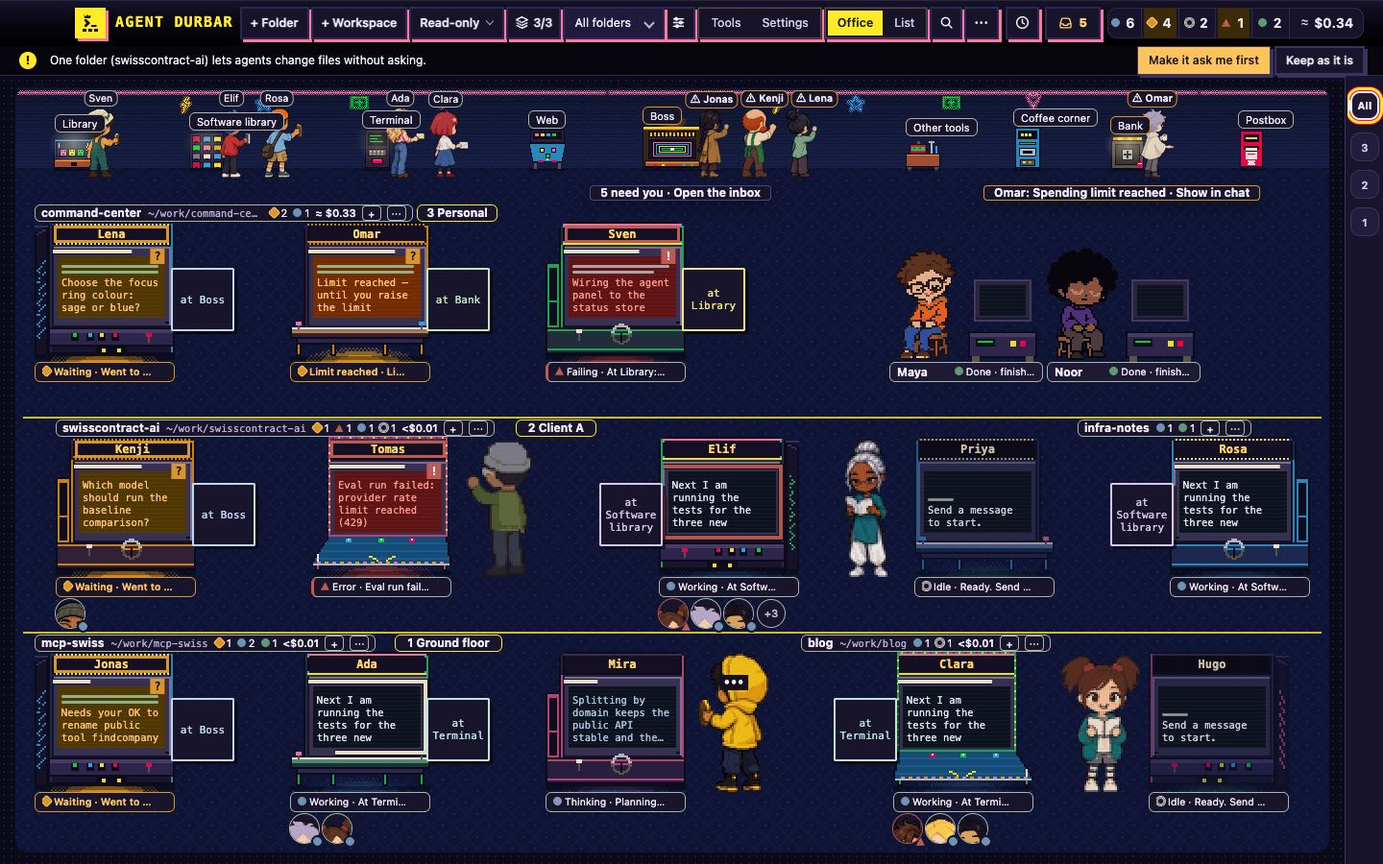
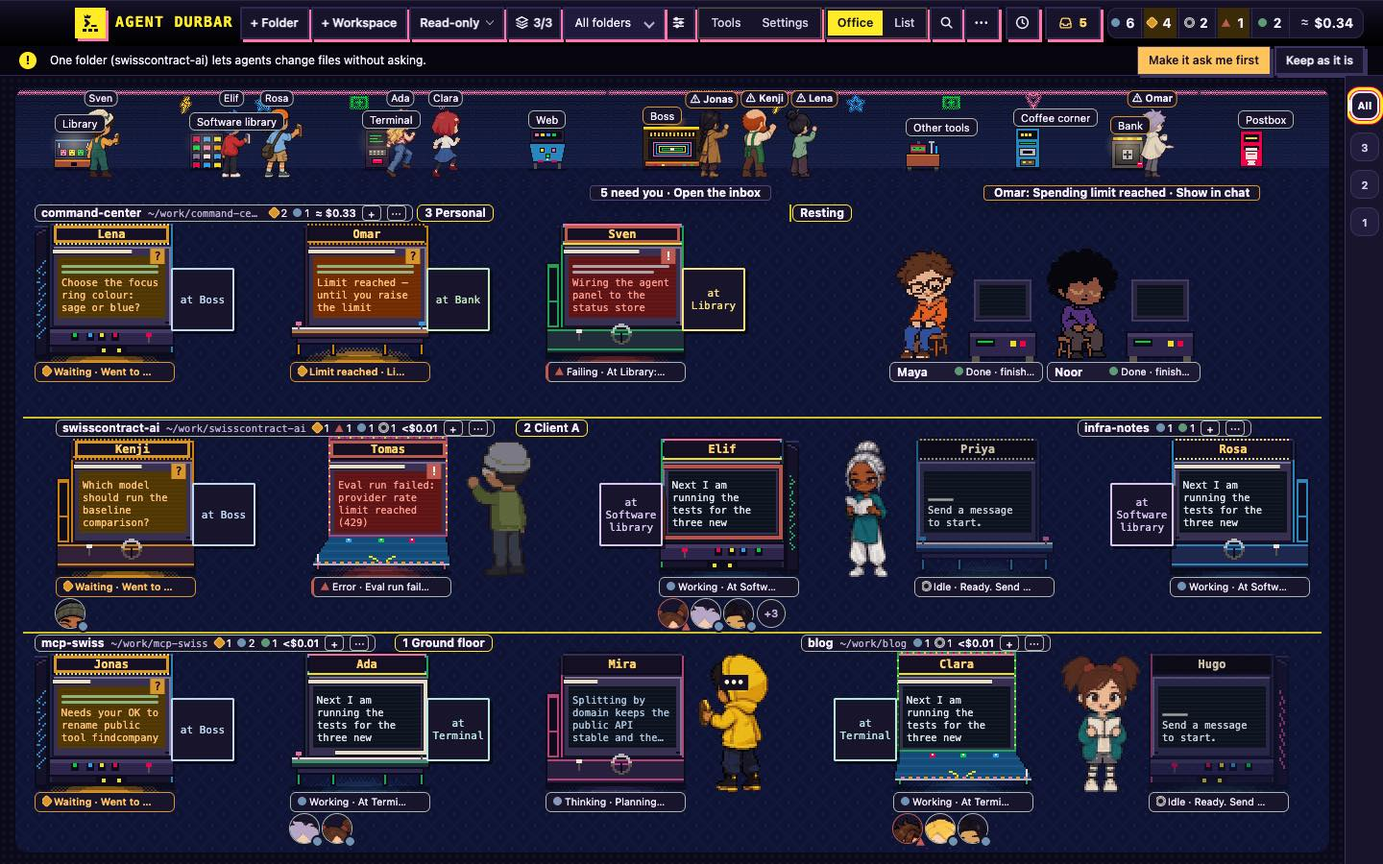
arcade All floors: resting seats in their own floor or under a Resting tag, tag sized from the measured text, a forced break keeps the helper strip, the keep clause tested

diff --git a/src/shared/realoffice-arrangements.ts b/src/shared/realoffice-arrangements.ts
@@ -40,16 +40,19 @@ export function aisleFace(col: number, cols: number, row: number): 'left' | 'rig
  *  rows of five), `keep` is off and every folder flows on: the floor never scrolls for it. */
 /** Spec 097 FR-248: `extra` single cells (the lounge's) go after the seats into the free cells at the rows' ends, the last row first, then on new rows */
 /** spec 102 delta 2026-11-14 (spec 097 FR-104): `starts` holds the indexes of the folders that begin a new storey (not the first): such a folder always starts a new row, so no row holds two floors */
-export function packSeats(sizes: number[], cols: number, keep = true, extra = 0, starts?: ReadonlySet<number>): { at: Array<[number, number]>; rows: number; inRow: number[] } {
-  const at: Array<[number, number]> = []; let r = 0, c = 0;
+/** spec 102 delta 2026-11-14 (review of #1741): `ends` maps a folder index to the number of lounge cells that follow that folder in the flow, so a floor's resting seats stand at the end of that floor's own folders (never in another floor's band); `extra` is then not used */
+export function packSeats(sizes: number[], cols: number, keep = true, extra = 0, starts?: ReadonlySet<number>, ends?: ReadonlyMap<number, number>): { at: Array<[number, number]>; rows: number; inRow: number[] } {
+  const at: Array<[number, number]> = [], cells: Array<[number, number]> = []; let r = 0, c = 0;
   for (const [fi, m] of sizes.entries()) {
     if (starts && starts.has(fi) && c > 0) { r++; c = 0; }
     const small = keep && m <= 4;
     if (small && c > 0 && c + m > cols) { r++; c = 0; }
     for (let j = 0; j < m; j++) { if (c >= cols) { r++; c = 0; } at.push([r, c++]); }
     if (small && m > cols && c > 0) { r++; c = 0; }            /* the rows of a folder wider than a row are its own */
+    for (let e = 0; ends && e < (ends.get(fi) || 0); e++) { if (c >= cols) { r++; c = 0; } cells.push([r, c++]); }
   }
   let rows = Math.max(1, c > 0 ? r + 1 : r);
+  if (ends) { at.push(...cells); const inRowE = Array.from({ length: rows }, (_, i) => at.filter((p) => p[0] === i).length); return { at, rows, inRow: inRowE }; }
   const inRow = Array.from({ length: rows }, (_, i) => at.filter((p) => p[0] === i).length);
   for (let e = 0; e < extra; e++) {
     let row = -1;
@@ -67,13 +70,13 @@ interface Plan { keep: boolean; g: number; gw: number; gh: number; cols: number;
  *  straight plan of the same scale, cabinet and rows and covers the same floor, so it never won; the rows stagger instead. The order: no bare band over a quarter of
  *  the floor if any plan manages that, then the biggest scale, then the biggest cabinet, then the least bare floor. Past what fits, rows are added
  *  at the smallest choice and the floor scrolls inside itself (T203). */
-function planFor(sizes: number[], W: number, F: number, PW: number = AISLE_PERSON.w, extra = 0, sh = 0, starts?: ReadonlySet<number>): Plan {
+function planFor(sizes: number[], W: number, F: number, PW: number = AISLE_PERSON.w, extra = 0, sh = 0, starts?: ReadonlySet<number>, ends?: ReadonlyMap<number, number>): Plan {
   const gaps = starts ? starts.size * STOREY_GAP : 0; /* the rule between two storeys */
   const k = sizes.reduce((a, b) => a + b, 0) + extra; /* extra: the lounge's cells (spec 097 FR-248) */
   const rowCost = (gh: number, g: number): number => AISLE_SIGN_H + cabGrid(0, gh).h * g + AISLE_PLATE_H + g - 1 + sh; /* g - 1: the cabinet snaps down to the grid; sh: the helper strip's fixed height under every plate (spec 097 FR-306, 0 without helpers) */
   const plans: Plan[] = [];
   for (const keep of [true, false]) for (const g of k <= 4 ? AISLE_G_FEW : [3, 2]) for (const [name, c] of Object.entries(CABINETS)) for (let cols = 1; cols <= AISLE_COLS; cols++) {
-    const rows = packSeats(sizes, cols, keep, extra, starts).rows, cab = cabGrid(c.gw, c.gh), slotW = (cab.w + PW + AISLE_GAP) * g;
+    const rows = packSeats(sizes, cols, keep, extra, starts, ends).rows, cab = cabGrid(c.gw, c.gh), slotW = (cab.w + PW + AISLE_GAP) * g;
     const cw = (W - 2 * AISLE_PAD) / cols, spareY = F - rows * rowCost(c.gh, g) - gaps;
     if (slotW > cw || slotW < AISLE_SIGN_MIN_W || spareY < 0 || cols > k) continue;
     plans.push({ keep, g, gw: c.gw, gh: c.gh, cols, rows, big: name === 'big', sl: Math.min(13, Math.floor(spareY / (2 * rows + 2))), /* the bend flattens before anything scrolls */ rowH: rowCost(c.gh, g), slotW, fits: true });
@@ -84,7 +87,7 @@ function planFor(sizes: number[], W: number, F: number, PW: number = AISLE_PERSO
   plans.sort((a, b) => Number(b.keep) - Number(a.keep) || cover(b) - cover(a) || Number(bare(a) > F / 4) - Number(bare(b) > F / 4) || b.g - a.g || b.gw * b.gh - a.gw * a.gh || bare(a) - bare(b) || a.rows - b.rows);
   if (plans.length) return plans[0];
   /* it does not fit: five columns of the smallest cabinet, as many rows as it takes, and the floor scrolls */
-  const g = 2, gw = CABINETS.narrow.gw, gh = CABINETS.narrow.gh, cols = k <= 4 ? 2 : AISLE_COLS, cab = cabGrid(gw, gh), rows = packSeats(sizes, cols, false, extra, starts).rows;
+  const g = 2, gw = CABINETS.narrow.gw, gh = CABINETS.narrow.gh, cols = k <= 4 ? 2 : AISLE_COLS, cab = cabGrid(gw, gh), rows = packSeats(sizes, cols, false, extra, starts, ends).rows;
   return { keep: false, g, gw, gh, cols, rows, big: false, sl: 3, rowH: rowCost(gh, g), slotW: (cab.w + PW + AISLE_GAP) * g, fits: false };
 }
 
@@ -168,11 +171,15 @@ function aisleSeat(meta: RealMeta, a: RealAgent, sx: number, plateY: number, gl:
 export function aislesLayout(model: RealModel, view: { w: number; h: number }, meta: RealMeta, signs?: Record<string, { name: string; path: string; counts: number }>): Layout {
   const W = Math.max(200, view.w), Ho = Math.max(200, view.h);
   /* FR-248: the lounge's agents leave their cabinets; their seats take cells after the cabinets (below) */
-  const sp = splitLounge(model), lounge = sp.lounge;
+  const sp = splitLounge(model); let lounge = sp.lounge;
   const floorOf = new Map(model.folders.map((f) => [f.id, f.floor] as const));
   const folders = sp.desks.filter((f) => f.agents.length).map((f) => ({ id: f.id, agents: shownDesks(f), floor: floorOf.get(f.id) })); /* FR-345: a saved desk order is kept in the cabinet rows too */
   /* spec 102 delta 2026-11-14 (spec 097 FR-104): a world that draws storeys (`meta.storeys`) puts each floor on rows of its own; `starts` are the folders that begin a storey after the first */
-  const runs = meta.storeys ? storeyRuns(folders) : null, starts = runs ? new Set(runs.slice(1).map((r) => r.from)) : undefined;
+  let runs = meta.storeys ? storeyRuns(folders) : null, starts: ReadonlySet<number> | undefined = runs ? new Set(runs.slice(1).map((r) => r.from)) : undefined;
+  /* review of #1741: a resting agent's seat stands at the end of its own floor's folders when that costs the hall nothing (the lounge is put in the building's order, stable: the status order within a floor).
+     Otherwise (or when an agent's floor has no folder here) the seats stay in the free cells at the rows' ends, as FR-248 has them, under their own tag "Resting" and a rule: no floor's band holds them */
+  const floorOfAgent = new Map(model.folders.flatMap((f) => f.agents.map((a) => [a.id, f.floor] as const)));
+  const loungeSt = (a: RealAgent): number => (runs ? runs.findIndex((r) => r.floor.id === (floorOfAgent.get(a.id) || { id: '' }).id) : -1);
   const seats = folders.flatMap((f) => f.agents.map((a) => ({ a, f: f.id })));
   const k = seats.length;
   const [lobbyMin0, lobbyMax] = lobbyRange(Ho), lobbyMin = lobbyMin0 - AISLE_LANE;
@@ -181,35 +188,51 @@ export function aislesLayout(model: RealModel, view: { w: number; h: number }, m
   /* the lobby first: the rows bend only with what is left once it has its height */
   /* FR-248: the lounge's seats take cells after the cabinets, in the hall's own grid (so the plan is never worse than with those agents at cabinets): as many
      cells as the seats need at the narrowest cell a plan can have (a seat is narrower than a cabinet with its player, so 5 seats take 4 cells) */
-  const minCell = cabGrid(CABINETS.narrow.gw, CABINETS.narrow.gh).w + PW + AISLE_GAP, nCells = lounge.length ? Math.ceil((lounge.length * AISLE_LSEAT) / minCell - 1e-9) : 0;
-  const sizes = folders.map((f) => f.agents.length), kc = k + nCells, lobbyT = Math.min(kc <= 4 ? AISLE_LOBBY_FEW : AISLE_LOBBY, lobbyMax);
+  const minCell = cabGrid(CABINETS.narrow.gw, CABINETS.narrow.gh).w + PW + AISLE_GAP, nCells0 = lounge.length ? Math.ceil((lounge.length * AISLE_LSEAT) / minCell - 1e-9) : 0;
+  /* the cells a storey's resting seats need, after that storey's last folder; their sum is the lounge's cells in the building view */
+  const aOk = !!runs && lounge.length > 0 && lounge.every((a) => loungeSt(a) >= 0), loungeS = aOk ? [...lounge].sort((a, b) => loungeSt(a) - loungeSt(b)) : lounge, cellsPer = aOk ? runs!.map((_, si) => { const n = loungeS.filter((a) => loungeSt(a) === si).length; return n ? Math.ceil((n * AISLE_LSEAT) / minCell - 1e-9) : 0; }) : [];
+  const ends: ReadonlyMap<number, number> | undefined = aOk ? new Map(runs!.map((r, si) => [r.to - 1, cellsPer[si]] as const).filter(([, n]) => n > 0)) : undefined, nCellsS = cellsPer.reduce((a, b) => a + b, 0);
+  const sizes = folders.map((f) => f.agents.length), kc = k + nCells0, lobbyT = Math.min(kc <= 4 ? AISLE_LOBBY_FEW : AISLE_LOBBY, lobbyMax);
   /* owner, 2026-11-03 06:59 UTC (option A): with 4 or fewer the lobby may be lower, down to its minimum, when that lets the cabinets grow; the
      lobby height and the plan are chosen together, by the floor the cabinets and people cover (the same height on a tie keeps the higher lobby);
      what the larger plan leaves goes back to the lobby */
   const covered = (p: Plan): number => p.fits ? p.g * p.g * (cabGrid(p.gw, p.gh).w * cabGrid(p.gw, p.gh).h + PW * AISLE_PERSON.h) : -1;
   /* spec 097 FR-306, FR-308 (issue #1139): with helpers, one row of head figures under every plate (a fixed height in every row); if the hall then no longer fits, no strip: the plate keeps +N and dots */
   const hasHelpers = folders.some((f) => f.agents.some((a) => (a.helpers || 0) > 0));
-  const planAt = (sh: number, st?: ReadonlySet<number>): Plan => {
-    let first = planFor(sizes, W, Ho - lobbyT - AISLE_LANE - AISLE_PAD, PW, nCells, sh, st);
-    if (kc <= 4 && AISLE_LOW_LOBBY) for (let L = lobbyT - 4; L >= Math.min(lobbyMin + AISLE_LANE, AISLE_LOBBY_LOW); L -= 2) { const p = planFor(sizes, W, Ho - L - AISLE_LANE - AISLE_PAD, PW, nCells, sh, st); if (covered(p) > covered(first)) first = p; }
+  const planAt = (sh: number, st?: ReadonlySet<number>, en?: ReadonlyMap<number, number>): Plan => {
+    const nCells = en ? nCellsS : nCells0;
+    let first = planFor(sizes, W, Ho - lobbyT - AISLE_LANE - AISLE_PAD, PW, nCells, sh, st, en);
+    if (kc <= 4 && AISLE_LOW_LOBBY) for (let L = lobbyT - 4; L >= Math.min(lobbyMin + AISLE_LANE, AISLE_LOBBY_LOW); L -= 2) { const p = planFor(sizes, W, Ho - L - AISLE_LANE - AISLE_PAD, PW, nCells, sh, st, en); if (covered(p) > covered(first)) first = p; }
     /* spec 102 delta 2026-11-12 (issue 1590): the lowest lobby is also tried when the plan at the set lobby fits only by cutting a folder of 4 or fewer across rows (keep: false) and the lowest lobby keeps them whole */
-    const low = planFor(sizes, W, Ho - lobbyMin - AISLE_LANE - AISLE_PAD, PW, nCells, sh, st);
+    const low = planFor(sizes, W, Ho - lobbyMin - AISLE_LANE - AISLE_PAD, PW, nCells, sh, st, en);
     return first.fits && (first.keep || !low.keep) ? first : low;
   };
-  const solve = (st?: ReadonlySet<number>): { sh: number; plan: Plan } => {
-    let sh = hasHelpers ? helpH(1) : 0, plan = planAt(sh, st);
-    if (sh && (!plan.fits || !plan.keep)) { const p0 = planAt(0, st); if (!plan.fits || p0.keep) { sh = 0; plan = p0; } } /* spec 102 delta 2026-11-12 (issue 1590): also no strip when it is what splits a folder of 4 or fewer that the hall keeps whole without it */
+  const solve = (st?: ReadonlySet<number>, en?: ReadonlyMap<number, number>): { sh: number; plan: Plan } => {
+    let sh = hasHelpers ? helpH(1) : 0, plan = planAt(sh, st, en);
+    if (sh && (!plan.fits || !plan.keep)) { const p0 = planAt(0, st, en); if (!plan.fits || p0.keep) { sh = 0; plan = p0; } } /* spec 102 delta 2026-11-12 (issue 1590): also no strip when it is what splits a folder of 4 or fewer that the hall keeps whole without it */
     return { sh, plan };
   };
   /* spec 102 delta 2026-11-14 (spec 097 FR-104, owner decision: the 15-agent rule wins): a floor starts on a new row only when that costs nothing: the same scale, the same cabinet, no scroll, a folder kept whole as before.
      Otherwise the floors share rows and the storeys are marked by their tags and rules where each starts */
-  let sol = solve(), forced: ReadonlySet<number> | undefined;
-  if (starts) {
-    const F = solve(starts), size = (p: Plan): number => p.gw * p.gh;
-    if (F.plan.fits ? !sol.plan.fits || (F.plan.g === sol.plan.g && size(F.plan) >= size(sol.plan) && (F.plan.keep || !sol.plan.keep)) : !sol.plan.fits) { sol = F; forced = starts; }
+  const size = (p: Plan): number => p.gw * p.gh;
+  /* a forced break is taken only when it is free: it fits, the same scale and cabinet, a folder of 4 or fewer kept whole, and the helper strip kept (review of #1741: `sh` was not compared) */
+  const pick = (e?: ReadonlyMap<number, number>): { sol: { sh: number; plan: Plan }; forced?: ReadonlySet<number> } => {
+    const s0 = solve(undefined, e);
+    if (!starts) return { sol: s0 };
+    const F = solve(starts, e);
+    return F.plan.fits ? (!s0.plan.fits || (F.plan.g === s0.plan.g && size(F.plan) >= size(s0.plan) && (F.plan.keep || !s0.plan.keep) && F.sh >= s0.sh) ? { sol: F, forced: starts } : { sol: s0 }) : { sol: s0 };
+  };
+  let en = ends, nCells = nCells0, restBand = !!runs && lounge.length > 0 && !ends, ch = pick(en);
+  if (ends) {
+    /* the seats beside their floors cost nothing the hall without storeys did not have (scale, cabinet, no scroll, a folder of 4 or fewer kept, the helper strip); if they do, they stay in the free cells under "Resting" */
+    const base = solve();
+    if (ch.sol.plan.fits ? !base.plan.fits || (ch.sol.plan.g === base.plan.g && size(ch.sol.plan) >= size(base.plan) && (ch.sol.plan.keep || !base.plan.keep) && ch.sol.sh >= base.sh) : !base.plan.fits) nCells = nCellsS;
+    else { en = undefined; restBand = true; ch = pick(undefined); }
   }
+  lounge = en ? loungeS : sp.lounge;
+  const sol = ch.sol, forced = ch.forced;
   const { sh, plan } = sol;
-  const { g, cols, rows, sl } = plan, pk = packSeats(sizes, cols, plan.keep, nCells, forced), cab = cabGrid(plan.gw, plan.gh), cabW = cab.w * g, cabH = cab.h * g, pw = PW * g, ph = AISLE_PERSON.h * g;
+  const { g, cols, rows, sl } = plan, pk = packSeats(sizes, cols, plan.keep, nCells, forced, en), cab = cabGrid(plan.gw, plan.gh), cabW = cab.w * g, cabH = cab.h * g, pw = PW * g, ph = AISLE_PERSON.h * g;
   const bend = 2 * sl, nGap = forced && runs ? runs.length - 1 : 0, used = rows * (plan.rowH + bend) + nGap * STOREY_GAP;
   /* the storey of each row (lounge-only rows below the last folder take the last one): the rule between storeys is added above its first row */
   const stOfFolder = folders.map((_, fi) => (forced && runs ? Math.max(0, runs.findIndex((r) => fi >= r.from && fi < r.to)) : 0)), rowSt: number[] = Array.from({ length: rows }, () => -1);
@@ -296,21 +319,33 @@ export function aislesLayout(model: RealModel, view: { w: number; h: number }, m
   });
   const lb = lobbyBand(meta, model.places, W, Lb);
   const height = plan.fits ? Ho : Math.ceil(Lb + AISLE_LANE + used + AISLE_PAD);
-  const lay: Layout = { lane: { x: AISLE_PAD, y: Lb, w: W - 2 * AISLE_PAD, h: AISLE_LANE }, u: AISLE_PERSON.h * g, g, big: kc <= BIG_MAX, lobbyH: Lb, floorH: height - Lb, width: W, height, scroll: !plan.fits, faceH: FACE_GRID * g, zones, fixtures: lb.fixtures, floorStrip: lb.floorStrip, cabinet: { w: cabW, h: cabH, gw: plan.gw, gh: plan.gh, cols, rows }, helpRows: sh ? 1 : 0, ...(bands.length ? { storeys: bands } : {}) };
+  const lay: Layout = { lane: { x: AISLE_PAD, y: Lb, w: W - 2 * AISLE_PAD, h: AISLE_LANE }, u: AISLE_PERSON.h * g, g, big: k + nCells <= BIG_MAX, lobbyH: Lb, floorH: height - Lb, width: W, height, scroll: !plan.fits, faceH: FACE_GRID * g, zones, fixtures: lb.fixtures, floorStrip: lb.floorStrip, cabinet: { w: cabW, h: cabH, gw: plan.gw, gh: plan.gh, cols, rows }, helpRows: sh ? 1 : 0, ...(bands.length ? { storeys: bands } : {}) };
   if (nCells) {
-    /* the lounge cells in runs per row; each run seats as many as its width holds, left to right, on one line: the lowest plate line of its cells (the row's bend), still inside the row */
+    /* the lounge cells in runs per row (in the building view: per row and floor, so a run holds one floor's seats); each run seats as many as its width holds, left to right, on one line: the lowest plate line of its cells (the row's bend), still inside the row */
     const gl = Math.min(g, AISLE_LG), sw = AISLE_LSEAT * gl, desks: DeskBox[] = [], snapL = (v: number): number => Math.round(v / gl) * gl;
-    const runs = new Map<number, number[]>();
-    for (let i = k; i < kc; i++) (runs.get(pk.at[i][0]) || runs.set(pk.at[i][0], []).get(pk.at[i][0])!).push(i);
-    let next = 0;
-    for (const cells of runs.values()) {
-      const bs = cells.map((i) => ({ x: cxs[i] + lean - cw / 2, b: slotBox(i) })), x0 = Math.min(...bs.map((c) => c.x)), x1 = Math.max(...bs.map((c) => c.x + cw));
-      const fit = Math.max(1, Math.floor((x1 - x0 - 2 * g) / sw)), take = next + fit >= lounge.length || runs.size === 1 ? lounge.length - next : fit, start = x0 + Math.max(g, (x1 - x0 - take * sw) / 2);
+    const cellSt = (i: number): number => { let a = i - k; for (let si = 0; si < cellsPer.length; si++) { if (a < cellsPer[si]) return si; a -= cellsPer[si]; } return -1; };
+    const cr = new Map<string, number[]>(), left = new Map<number, number>();
+    for (let i = k; i < k + nCells; i++) { const st = en ? cellSt(i) : 0, key = pk.at[i][0] + ':' + st; (cr.get(key) || cr.set(key, []).get(key)!).push(i); }
+    if (en) lounge.forEach((a) => left.set(loungeSt(a), (left.get(loungeSt(a)) || 0) + 1));
+    const runInfo: Array<{ top: number; x0: number; x1: number }> = [];
+    let next = 0; const lastRun = new Map<number, string>(); if (en) for (const key of cr.keys()) lastRun.set(Number(key.split(':')[1]), key);
+    for (const [key, cells] of cr.entries()) {
+      const bs = cells.map((i) => ({ x: cxs[i] + lean - cw / 2, b: slotBox(i) })), x0 = Math.min(...bs.map((c) => c.x)), x1 = Math.max(...bs.map((c) => c.x + cw)), st = Number(key.split(':')[1]);
+      const fit = Math.max(1, Math.floor((x1 - x0 - 2 * g) / sw)), take = en ? (lastRun.get(st) === key ? left.get(st)! : Math.min(fit, left.get(st)!)) : next + fit >= lounge.length || cr.size === 1 ? lounge.length - next : fit, start = x0 + Math.max(g, (x1 - x0 - take * sw) / 2);
       const plateY = Math.max(...bs.map((c) => c.b.cab.y)) + cabH;
+      runInfo.push({ top: Math.min(...bs.map((c) => c.b.top)), x0, x1 });
       for (let j = 0; j < take && next < lounge.length; j++, next++) desks.push(aisleSeat(meta, lounge[next], snapL(start + j * sw), plateY, gl));
+      if (en) left.set(st, left.get(st)! - take);
     }
     const x0 = Math.min(...desks.map((d) => d.slot.x)), x1 = Math.max(...desks.map((d) => d.slot.x + d.slot.w)), y0 = Math.min(...desks.map((d) => d.slot.y)), y1 = Math.max(...desks.map((d) => d.slot.y + d.slot.h));
     lay.lounge = { box: { x: x0 - 4, y: y0, w: x1 - x0 + 8, h: y1 - y0 }, desks };
+    if (restBand && runInfo.length) { /* review of #1741: the seats in the free cells are no floor's: they stand under their own tag "Resting", with an upright rule before it, at the first of their runs; a sign that reached over that place gives up the width */
+      const r0 = runInfo.reduce((m, r) => (r.top < m.top || (r.top === m.top && r.x0 < m.x0) ? r : m), runInfo[0]), tx = Math.round(r0.x0 + 3), tw = Math.max(STOREY_TAG_MIN * 0.6, Math.min(storeyTagW({ id: '*rest', name: 'Resting', n: 0, w: model.restW }), r0.x1 - tx - 2));
+      for (const z of zones) if (Math.abs(z.sign.y - r0.top) < 1 && z.sign.x < r0.x0 && z.sign.x + z.sign.w > r0.x0 - 6) { z.sign.w = Math.max(AISLE_SIGN_MIN_W, r0.x0 - 6 - z.sign.x); z.signShort = true; }
+      const bx0 = Math.min(...desks.map((d) => d.slot.x), tx), by0 = r0.top, bx1 = Math.max(...desks.map((d) => d.slot.x + d.slot.w), tx + tw), by1 = Math.max(...desks.map((d) => d.slot.y + d.slot.h));
+      bands.push({ id: '*rest', name: 'Resting', n: 0, box: { x: bx0, y: by0, w: bx1 - bx0, h: by1 - by0 }, tag: { x: tx, y: r0.top, w: tw, h: AISLE_SIGN_H }, slab: { x: Math.max(0, tx - 3), y: r0.top, w: 2, h: AISLE_SIGN_H } });
+    }
+    if (en) bands.forEach((b, si) => { const mine = desks.filter((d) => loungeSt(lounge[desks.indexOf(d)]) === si); if (!mine.length) return; const x0b = Math.min(b.box.x, ...mine.map((d) => d.slot.x)), y0b = Math.min(b.box.y, ...mine.map((d) => d.slot.y)), x1b = Math.max(b.box.x + b.box.w, ...mine.map((d) => d.slot.x + d.slot.w)), y1b = Math.max(b.box.y + b.box.h, ...mine.map((d) => d.slot.y + d.slot.h)); b.box = { x: x0b, y: y0b, w: x1b - x0b, h: y1b - y0b }; }); /* a band holds its floor's resting seats */
   }
   return lay;
 }

diff --git a/scripts/test-realoffice-aisles.ts b/scripts/test-realoffice-aisles.ts
@@ -592,7 +592,7 @@ console.log(`floor covered with 4 or fewer: ${covs.join('; ')}`);
 // ---- spec 102 delta 2026-11-14 (spec 097 FR-104, FR-116, issue #1268 T223): the All floors view as storeys. A floor starts on a new row when that costs no row, no smaller cabinet and no scroll;
 // otherwise the floors share rows and each storey is marked by its tag and a rule where it starts. 15 agents fit both sizes over 1, 2 and 3 floors; a tag never covers a sign or another tag.
 {
-  const FLS: RealFloor[] = [{ id: 'g', name: 'Ground floor', n: 1 }, { id: 'c', name: 'Client A', n: 2 }, { id: 'p', name: 'Personal', n: 3 }];
+  const FLS: RealFloor[] = [{ id: 'g', name: 'Ground floor', n: 1 }, { id: 'c', name: 'Client A', n: 2 }, { id: 'p', name: 'Personal', n: 3 }].map((f) => ({ ...f, w: 6.5 * (2 + f.name.length) })); // each with a measured text width, as the renderer passes it (the sign's 12 px bold, about 6.5 px a letter)
   const fm = (sizes: number[], floorOf: number[]): RealModel => { let i = 0; return { folders: sizes.map((n, fi) => ({ id: 'f' + fi, floor: FLS[floorOf[fi]], agents: Array.from({ length: n }, () => { const k = i++; return { id: 'a' + k, state: 'working' as RealState, person: PEOPLE[k % 15], away: null }; }) })), places: ['library', 'boss'].map((id) => ({ id, visitors: [] })) }; };
   const sg = (n: number): Record<string, { name: string; path: string; counts: number }> => Object.fromEntries(Array.from({ length: n }, (_, i) => ['f' + i, { name: 'project-' + i, path: '~/work/p' + i, counts: 3 }]));
   const flat = (m: RealModel): RealModel => ({ ...m, folders: m.folders.map((f) => ({ ...f, floor: undefined })) });
@@ -614,7 +614,7 @@ console.log(`floor covered with 4 or fewer: ${covs.join('; ')}`);
     S.forEach((b, i) => { if (i) { const a = S[i - 1]; assert.ok(a.tag.y < b.tag.y || (a.tag.y === b.tag.y && a.tag.x < b.tag.x), `${tag}: the tag of ${b.name} comes after the tag of ${a.name} in reading order`); } });
     const signs = L.zones.map((z) => z.sign);
     for (const [i, b] of S.entries()) {
-      assert.ok(b.tag.x >= 0 && b.tag.x + b.tag.w <= W && b.tag.h === 18 && b.tag.w >= storeyTagW({ id: '', name: b.name, n: b.n }), `${tag}: the tag of ${b.name} is whole inside the hall`);
+      assert.ok(b.tag.x >= 0 && b.tag.x + b.tag.w <= W && b.tag.h === 18 && b.tag.w >= storeyTagW(FLS.find((f) => f.n === b.n)!), `${tag}: the tag of ${b.name} is whole inside the hall`);
       assert.ok(inside(b.tag, { x: 0, y: 0, w: W, h: L.height }), `${tag}: the tag of ${b.name} is in the hall`);
       assert.ok(!signs.some((sn) => inter(sn, b.tag)), `${tag}: the tag of ${b.name} covers no sign`);
       assert.ok(!S.some((o, j) => j !== i && inter(o.tag, b.tag)), `${tag}: the tag of ${b.name} covers no other tag`);
@@ -647,6 +647,66 @@ console.log(`floor covered with 4 or fewer: ${covs.join('; ')}`);
   assert.strictEqual(storeyRuns(fm([5, 5], [0, 0]).folders), null, 'storeyRuns: one floor is no storeys');
   assert.strictEqual(storeyRuns(fm([2, 2, 2], [0, 1, 0]).folders), null, 'storeyRuns: a floor split in two runs is not storeys (the app sorts by floor first)');
   assert.strictEqual(realLayout(fm([5, 5, 5], [2, 1, 0]), { w: 1248, h: ROOM.h800 }, { ...META, storeys: true }, sg(3)).storeys, undefined, 'KNOWN GAP (spec 097 T113): the rows arrangement draws no storeys yet, whatever the flag');
+  // ---- review of #1741 (spec 102 delta 2026-11-14): the four fixes
+  const fmx = (sizes: number[], floorOf: number[], o: { rest?: number[]; helpers?: boolean; w?: number; swap?: boolean } = {}): RealModel => { const m = fm(sizes, floorOf); let i = 0; return { ...m, folders: m.folders.map((f) => ({ ...f, floor: f.floor && o.w !== undefined ? { ...f.floor, w: o.w } : f.floor, agents: f.agents.map((a) => { const k = i++; return { ...a, ...(o.helpers ? { helpers: 1 } : {}), ...(o.rest && o.rest.includes(k) ? { lounge: true, state: ((o.rest.indexOf(k) % 2 === 0) !== !!o.swap ? 'error' : 'idle') as RealState } : {}) }; }) })) }; }; /* swap: the resting agents' status order the other way round, so the lounge's order is not the building's */
+  const SZ2: Array<[string, number, number]> = [['1440x900', 1408, ROOM.h900], ['1280x800', 1248, ROOM.h800]];
+  // (1) resting agents (spec 097 FR-248): a resting agent's seat stands at the end of its own floor's folders, never in another floor's band or row run: reading order puts the seat after a folder of its own floor
+  const floorOfAgent = (m: RealModel, id: string): string => m.folders.find((f) => f.agents.some((a) => a.id === id))!.floor!.id;
+  const seatPrev = (L: Layout, d: DeskBox, m: RealModel): string => { /* the folder just before the seat in reading order (row, then x); its floor is the seat's floor */
+    const ys = [...new Set(L.zones.map((z) => z.sign.y))].sort((x, y) => x - y), beyond = d.plate.y > ys[ys.length - 1] + L.cabinet!.h + 18 + 21 + 40, row = ys.filter((y) => y <= d.plate.y).length - 1;
+    const before = L.zones.filter((z) => beyond || z.sign.y < ys[row] || (z.sign.y === ys[row] && z.box.x < d.slot.x)).sort((p1, p2) => p1.sign.y - p2.sign.y || p1.box.x - p2.box.x);
+    return m.folders.find((f) => f.id === before[before.length - 1].id.split('\u0000')[0])!.floor!.id;
+  };
+  for (const swap of [false, true]) for (const [nm, W, H] of SZ2) for (const [name, sz, fl, rest] of [['5/5/3, two resting on two floors', [5, 5, 3], [2, 1, 0], [7, 12]], ['4/4/4, one resting on each floor', [4, 4, 4], [2, 1, 0], [1, 5, 9]], ['3/3/3, one resting on each floor', [3, 3, 3], [2, 1, 0], [1, 4, 7]], ['5/5 on 2 floors, two resting', [5, 5], [1, 0], [2, 8]], ['2/2/2 sharing rows, three resting', [2, 2, 2], [2, 1, 0], [0, 3, 5]], ['6/5/4 sharing rows, two resting', [6, 5, 4], [2, 1, 0], [0, 7]], ['4/4/4/3, two resting', [4, 4, 4, 3], [2, 2, 1, 0], [0, 9]]] as Array<[string, number[], number[], number[]]>) {
+    const tag = `${name} at ${nm}${swap ? ' (status order swapped)' : ''}`, m = fmx(sz, fl, { rest, swap }), L = aislesLayout(m, { w: W, h: H }, META, sg(sz.length)), F0 = aislesLayout(flat(m), { w: W, h: H }, META, sg(sz.length));
+    assert.ok(!L.scroll && L.lounge && L.lounge.desks.length === rest.length && L.storeys && L.storeys.length === new Set(fl).size, `${tag}: storeys drawn, the resting agents seated, no scroll`);
+    assert.ok(L.g === F0.g && L.cabinet!.gw === F0.cabinet!.gw, `${tag}: the resting seats cost no scale and no cabinet`);
+    for (const d of L.lounge!.desks) {
+      assert.strictEqual(seatPrev(L, d, m), floorOfAgent(m, d.id), `${tag}: the seat of ${d.id} comes after a folder of its own floor, not another floor's`);
+      const mine = L.storeys!.filter((b) => b.box.y <= d.slot.y + 1 && d.slot.y + d.slot.h <= b.box.y + b.box.h + 1 && b.box.x <= d.slot.x + 1 && d.slot.x + d.slot.w <= b.box.x + b.box.w + 1);
+      assert.ok(mine.length >= 1, `${tag}: the seat of ${d.id} is inside a storey band`);
+      for (const b of L.storeys!) assert.ok(!inter(b.tag, d.slot) && !inter(b.tag, d.plate) && !inter(b.tag, d.desk), `${tag}: the tag of ${b.name} covers no resting seat`);
+      assert.ok(inside(d.slot, { x: 0, y: 0, w: W, h: L.height }, 1), `${tag}: the seat of ${d.id} is inside the hall`);
+    }
+    if (L.storeys!.every((b) => !b.slab || b.slab.w > 100)) for (const d of L.lounge!.desks) { /* floors on rows of their own: the seat is in no band but its own floor's */
+      const own = L.storeys!.findIndex((b) => b.name === FLS.find((f) => f.id === floorOfAgent(m, d.id))!.name);
+      L.storeys!.forEach((b, i) => { if (i !== own) assert.ok(!inter(d.slot, b.box) && !inter(d.plate, b.box), `${tag}: the seat of ${d.id} lies in the band of ${b.name}, a floor it is not on`); });
+    }
+    cases++;
+  }
+  // when a seat beside its floor would cost the hall (the cabinet, a scroll, a folder kept whole), or its floor has no folder here, the seats stay in the free cells at the rows' ends as FR-248 has them, under their own tag
+  // "Resting" and an upright rule: no floor's band holds them, the hall is the one without floors, and the floors' tags are as before
+  for (const [nm, W, H, sz, fl, rest] of [['a floor whose agents all rest', 1248, ROOM.h800, [5, 3, 3], [2, 1, 0], [5, 6, 7]], ['the top floor all rests', 1248, ROOM.h800, [3, 3, 3], [2, 1, 0], [0, 1, 2]], ['2/5 with one resting (the seat beside its floor would cost the cabinet)', 1408, ROOM.h900, [2, 5], [1, 0], [2]], ['the arcade demo: 3/4/2/4/2 on three floors, two resting', 1248, ROOM.h800, [3, 4, 2, 4, 2], [2, 1, 1, 0, 0], [8, 10]], ['the same at 1440x900', 1408, ROOM.h900, [3, 4, 2, 4, 2], [2, 1, 1, 0, 0], [8, 10]]] as Array<[string, number, number, number[], number[], number[]]>) {
+    const m = fmx(sz, fl, { rest }), L = aislesLayout(m, { w: W, h: H }, META, sg(sz.length)), F0 = aislesLayout(flat(m), { w: W, h: H }, META, sg(sz.length));
+    const rb = L.storeys && L.storeys.find((b) => b.n === 0);
+    assert.ok(L.storeys && rb && L.storeys[L.storeys.length - 1] === rb && L.storeys.filter((b) => b.n > 0).length >= 2, `${nm}: the floors' storeys and a Resting band after them`);
+    assert.strictEqual(L.lounge && L.lounge.desks.length, rest.length, `${nm}: every resting agent is seated`);
+    assert.ok(!L.scroll && L.g === F0.g && L.cabinet!.gw === F0.cabinet!.gw, `${nm}: the hall is as without floors (scale, cabinet, no scroll)`);
+    for (const d of L.lounge!.desks) assert.ok(inside(d.slot, rb!.box, 1), `${nm}: the seat of ${d.id} is in the Resting band`);
+    for (const b of L.storeys!) {
+      for (const d of L.lounge!.desks) assert.ok(!inter(b.tag, d.slot) && !inter(b.tag, d.plate) && !inter(b.tag, d.desk), `${nm}: the tag of ${b.name} covers no resting seat`);
+      assert.ok(!L.zones.some((z) => inter(z.sign, b.tag) || z.desks.some((d) => inter(b.tag, d.desk))) && !L.storeys!.some((o) => o !== b && inter(o.tag, b.tag)), `${nm}: the tag of ${b.name} covers no sign, cabinet or other tag`);
+    }
+    assert.ok(rb!.tag.y <= Math.min(...L.lounge!.desks.map((d) => d.slot.y)) && rb!.tag.x >= 0 && rb!.tag.x + rb!.tag.w <= W && rb!.slab!.w === 2, `${nm}: the Resting tag stands over the seats, inside the hall, with an upright rule`);
+    cases++;
+  }
+  // (2) the tag is sized from the measured text: a wider font gives a wider tag, a narrow measure a narrow one, a very long name is capped; with no measure 8 px a letter
+  assert.strictEqual(storeyTagW({ id: 'p', name: 'Personal', n: 3, w: 100 }), 116, 'the tag is the measured text plus 16 px of padding and border');
+  assert.strictEqual(storeyTagW({ id: 'p', name: 'Personal', n: 3 }), 16 + 8 * 10, 'no measure: 8 px a letter, digits and space included');
+  assert.ok(storeyTagW({ id: 'p', name: 'Personal', n: 3, w: 5000 }) <= 16 + 8 * 27, 'a long name is capped');
+  { const wide = aislesLayout(fmx([5, 5, 3], [2, 1, 0], { w: 140 }), { w: 1248, h: ROOM.h800 }, META, sg(3)), thin = aislesLayout(fmx([5, 5, 3], [2, 1, 0], { w: 50 }), { w: 1248, h: ROOM.h800 }, META, sg(3));
+    assert.ok(wide.storeys!.every((b) => b.tag.w >= 156) && thin.storeys!.every((b) => b.tag.w < 156 && b.tag.w >= 66), 'a wider measured font gives a wider tag in the layout, a narrow one a narrower one'); }
+  // (3) a forced break never drops the helper strip: 6 and 4 agents with helpers on two floors at 1280x800 keep the strip the hall without floors had
+  for (const [nm, W, H] of SZ2) for (const sz of [[6, 4], [4, 6], [5, 4, 3], [7, 3, 4]]) {
+    const fl = sz.length === 2 ? [1, 0] : [2, 1, 0], m = fmx(sz, fl, { helpers: true }), L = aislesLayout(m, { w: W, h: H }, META, sg(sz.length)), F0 = aislesLayout(flat(m), { w: W, h: H }, META, sg(sz.length));
+    assert.ok(L.helpRows! >= F0.helpRows! && !L.scroll, `${sz.join('/')} with helpers at ${nm}: the helper strip is kept (${F0.helpRows} without floors, ${L.helpRows} with)`);
+  }
+  assert.strictEqual(aislesLayout(fmx([6, 4], [1, 0], { helpers: true }), { w: 1248, h: ROOM.h800 }, META, sg(2)).helpRows, 1, '6/4 with helpers at 1280x800: the strip is shown');
+  // (4) a folder of 4 or fewer stays whole: 2/4/2/3 (the last on another floor) at 1280x800 would take a forced break that cuts the folder of 4 across two rows; the floors share rows instead
+  { const m = fmx([2, 4, 2, 3], [2, 2, 2, 1]), L = aislesLayout(m, { w: 1248, h: ROOM.h800 }, META, sg(4)), parts = new Map<string, number>();
+    for (const z of L.zones) parts.set(z.id, (parts.get(z.id) || 0) + 1);
+    assert.ok([...parts.values()].every((n) => n === 1), 'keeps a folder of 4 or fewer whole: no forced break that cuts one across rows (2/4/2/3)');
+    assert.ok(L.storeys!.length === 2 && L.storeys![1].slab!.w === 2, 'the floors share rows there (an upright rule)'); }
   console.log('storeys: 12 agent splits over 1 to 3 floors at both sizes: no scroll, scale and cabinet as without floors, tags clear of signs, cabinets and each other');
 }
 

diff --git a/src/renderer/realoffice.js b/src/renderer/realoffice.js
@@ -319,6 +319,16 @@
    * state,word,task,label,tip,selected,away,awayLabel,helpers:[state],helpWords}]}], places:[{id,label,custom,post,title,go,visitors:[{id,name,
    * needsYou,title}]}]}; `view`: {w,h}; `opts`: {still, world, set, rand, remember, onArt}. Returns the layout (for the app's checks).
    */
+  /* spec 102 delta 2026-11-14 (review of #1741): a storey tag's text width in the sign's own 12 px bold, in the font of this machine (a canvas measure; the layout adds the padding). Cached by font and text; null when it cannot be measured (the layout then takes 8 px a letter) */
+  let TAGCV = null;
+  function tagMeasure(stage) { /* one probe a render: the sign's bold font; returns text => px, or null (the layout then takes 8 px a letter) */
+    try {
+      const probe = document.createElement('div'); probe.className = 'ro-sign'; probe.style.cssText = 'position:absolute;visibility:hidden;left:0;top:0'; const pb = document.createElement('b'); probe.appendChild(pb); stage.appendChild(probe);
+      const cs = getComputedStyle(pb), font = cs.fontStyle + ' ' + cs.fontWeight + ' ' + cs.fontSize + ' ' + cs.fontFamily; probe.remove();
+      TAGCV = TAGCV || document.createElement('canvas').getContext('2d'); TAGCV.font = font;
+      return (text) => { const w = TAGCV.measureText(text).width; return w > 0 ? w : undefined; };
+    } catch (e) { return null; }
+  }
   function render(stage, model, view, opts) {
     const L = X();
     const world = has(root.DurbarRealOfficeWorlds || {}, opts.world || 'photo') ? opts.world || 'photo' : 'photo', set = has(root.DurbarRealOfficeSets || {}, opts.set || 'office') ? opts.set || 'office' : 'office';
@@ -331,9 +341,11 @@
     const ids = Object.keys(meta.seat).sort();
     const who = people(model, ids, opts.rand, !!opts.remember);
     const seatOk = (p) => !!p && !['typeA', 'think', 'waveA', 'rest'].some((f) => BAD.has(SD + p + '-' + f + '.webp'));
+    const tagW = model.folders.some((f) => f.floor) ? tagMeasure(stage) : null; /* review of #1741: the storey tags are sized from the text as this machine draws it */
     const engine = {
       keepRooms: !!model.keepRooms, /* spec 097 FR-353: a saved room order is kept in the rows */
-      folders: model.folders.map((f) => ({ id: f.id, floor: f.floor || undefined, keep: !!f.keep, agents: f.agents.map((a) => ({ id: a.id, state: a.state, away: a.away || null, person: seatOk(who[a.id]) ? who[a.id] : null, lounge: !!a.lounge, helpers: a.lounge || !a.subs ? 0 : a.subs.length })) })), /* spec 097 FR-246: the app's room rule (shutPlan) seats it in the lounge row; FR-306: the strip's helpers (none in the lounge; none without their list: the plate keeps its +N) */
+      restW: tagW ? tagW('Resting') : undefined, /* review of #1741: the Resting tag */
+      folders: model.folders.map((f) => ({ id: f.id, floor: f.floor ? Object.assign({}, f.floor, { w: tagW ? tagW(f.floor.n + ' ' + f.floor.name) : undefined }) : undefined, keep: !!f.keep, agents: f.agents.map((a) => ({ id: a.id, state: a.state, away: a.away || null, person: seatOk(who[a.id]) ? who[a.id] : null, lounge: !!a.lounge, helpers: a.lounge || !a.subs ? 0 : a.subs.length })) })), /* spec 097 FR-246: the app's room rule (shutPlan) seats it in the lounge row; FR-306: the strip's helpers (none in the lounge; none without their list: the plate keeps its +N) */
       places: model.places.map((p) => ({ id: p.id, custom: !!p.custom, visitors: p.visitors.map((v) => ({ id: v.id, needsYou: !!v.needsYou, person: who[v.id] || null })) })),
     };
     const signs = {};
@@ -396,8 +408,8 @@
     for (const b of lay.storeys || []) {
       if (b.slab) { const sl = el(art, 'storey-slab:' + b.id, 'div', 'ro-slab'); box(sl, b.slab); dset(sl, 'storey', b.id); }
       const tg = el(chrome, 'storey-tag:' + b.id, 'div', 'ro-sign ro-stag'); box(tg, b.tag); dset(tg, 'storey', b.id); dset(tg, 'surface', 'storey');
-      if (tg._sig !== b.name + '\u0000' + b.n) { tg._sig = b.name + '\u0000' + b.n; tg.textContent = ''; const nb = document.createElement('b'); nb.textContent = b.n + ' ' + b.name; tg.appendChild(nb); }
-      attr(tg, 'title', 'Floor ' + b.n + ': ' + b.name); attr(tg, 'role', 'note');
+      if (tg._sig !== b.name + '\u0000' + b.n) { tg._sig = b.name + '\u0000' + b.n; tg.textContent = ''; const nb = document.createElement('b'); nb.textContent = (b.n ? b.n + ' ' : '') + b.name; tg.appendChild(nb); }
+      attr(tg, 'title', b.n ? 'Floor ' + b.n + ': ' + b.name : 'Resting: not on any floor'); attr(tg, 'role', 'note');
     }
     if (lay.lounge) {
       for (const d of lay.lounge.desks) deskOne(d); /* spec 097 FR-247: after the desks */

diff --git a/src/shared/realoffice-layout.ts b/src/shared/realoffice-layout.ts
@@ -9,12 +9,14 @@ export type RealState = 'working' | 'thinking' | 'waiting' | 'error' | 'limit' |
 export interface RealAgent { id: string; state: RealState; away?: string | null; person?: string | null; lounge?: boolean; helpers?: number }
 /** `keep`: the folder has a saved desk order (spec 097 FR-345): its desks stay in the model's order, no status sort */
 /** spec 102 delta 2026-11-14 (spec 097 FR-104, FR-116): the floor a folder stands on in the All floors view; `n` counts from the bottom (floor 1 is the ground floor). Only the All floors view sets it. */
-export interface RealFloor { id: string; name: string; n: number }
+/** `w`: the width in px of the tag's text ("3 Personal") in the sign's own 12 px bold font, measured by the renderer (spec 102 delta 2026-11-14, review of #1741); absent in a pure test */
+export interface RealFloor { id: string; name: string; n: number; w?: number }
 export interface RealFolder { id: string; agents: RealAgent[]; keep?: boolean; floor?: RealFloor }
 export interface RealVisitor { id: string; person?: string | null; needsYou?: boolean }
 export interface RealPlace { id: string; custom?: boolean; visitors: RealVisitor[] }
 /** `keepRooms`: the person saved a room order for this floor (spec 097 FR-353, owner Q31): the rooms stand in rows in that order, left to right, top to bottom, even if the picture is a little smaller */
-export interface RealModel { folders: RealFolder[]; places: RealPlace[]; keepRooms?: boolean }
+/** `restW`: the measured width in px of the tag "Resting" (same font as `RealFloor.w`) */
+export interface RealModel { folders: RealFolder[]; places: RealPlace[]; keepRooms?: boolean; restW?: number }
 export interface SeatMeta { w: number; h: number; headTop: number; bodyH: number; hand: number }
 /** `feet` and `top`: per pose, the lowest and highest opaque row as a share of the picture's height, measured from its alpha (owner 2026-10-31 10:19) */
 export interface StandMeta { figH: number; poses: Record<string, [number, number]>; feet?: Record<string, number>; top?: Record<string, number>; foot?: Record<string, number> }
@@ -526,8 +528,9 @@ export function storeyRuns(folders: ReadonlyArray<{ floor?: RealFloor }>): Array
 export const STOREY_GAP = 4;
 /** the narrowest a storey's tag may be cut to, px (its name is cut with an ellipsis, the whole name is in its title) */
 export const STOREY_TAG_MIN = 70;
-/** the width of a storey's tag ("3 Client A"): the digits, a space and the name (at most 24 letters, the rest is cut and in the title), the sign's 12 px bold, 7 px a letter, 14 px of padding */
-export const storeyTagW = (f: RealFloor): number => 14 + 7 * (String(f.n).length + 1 + Math.min(24, f.name.length));
+/** the width of a storey's tag ("3 Client A"): the text's measured width (`w`, px, the sign's 12 px bold in the font of this machine) plus the sign's 16 px of padding and border; with no measure, 8 px a letter
+ *  (the digits, a space and the name, at most 24 letters: the rest is cut and in the title). `n` 0 is the Resting tag: its text is the name alone. */
+export const storeyTagW = (f: RealFloor): number => 16 + Math.ceil(f.w !== undefined ? Math.min(f.w, 8 * 27) : 8 * ((f.n ? String(f.n).length + 1 : 0) + Math.min(24, f.name.length)));
 
 /** FR-356 (bug #1392): the narrowest whole sign: its name cut to 3 letters, no path, the counts, the cost (`counts` counts it, as `signWidth`), + and menu. Measured 183 px with two
  *  counts and a cost (the cave at 1280x800, 2026-11-09), plus 7 px for a wider font (#1079). A room narrower than this takes the short sign (FR-256's: no cost, no path). */

diff --git a/scripts/shots-097-moments.js b/scripts/shots-097-moments.js
@@ -460,12 +460,14 @@ module.exports = async (ctx) => {
           small:tags.filter(t=>parseFloat(getComputedStyle(t.querySelector('b')||t).fontSize)<10.5).length,
           ratio:Math.min(...tags.map(t=>{const b=t.querySelector('b')||t,a=Lm(P(getComputedStyle(b).color)),c=Lm(P(getComputedStyle(t).backgroundColor));return (Math.max(a,c)+0.05)/(Math.min(a,c)+0.05)})),
           overlap:tags.flatMap((t,i)=>tags.slice(i+1).filter(o=>hit(R(t),R(o))).map(()=>'tag x tag').concat(others.filter(o=>hit(R(t),R(o))).map(o=>'tag x '+o.className))),
-          cut:tags.filter(t=>t.scrollWidth>t.clientWidth+0.5||!R(t).width).length,
+          cut:tags.filter(t=>{const b=t.querySelector('b');return !b||b.scrollWidth>b.clientWidth+0.5||!R(t).width}).map(t=>t.textContent.trim()), /* review of #1741: the ellipsis is on the <b>, not on the tag's box (that one never overflows) */
+          lounge:document.querySelectorAll('#stage .ro-plate.lounge').length,rest:tags.some(t=>t.textContent.trim()==='Resting'),
           inWindow:tags.every(t=>{const r=R(t);return r.left>=0&&r.right<=innerWidth&&r.top>=0&&r.bottom<=innerHeight}),
           storeys:(lay.storeys||[]).length,scroll:st.dataset.fit==='scroll'||fl.scrollHeight>fl.clientHeight+1}})()`);
       assert.ok(sto.storeys >= 2, `${tag}: the All floors view has at least two storeys: ${JSON.stringify(sto)}`);
+      assert.ok(sto.lounge >= 1 && sto.rest, `${tag}: the simulator's resting agents are on screen under the Resting tag (spec 102, review of #1741: no floor's band holds them): ${JSON.stringify(sto)}`);
       assert.ok(sto.names.length >= 2 && sto.names.every((n) => sto.texts.some((t) => t.endsWith(' ' + n))), `${tag}: every floor's name is on screen in a storey tag: ${JSON.stringify([sto.names, sto.texts])}`);
-      assert.strictEqual(sto.cut, 0, `${tag}: no storey tag cuts its name`);
+      assert.deepStrictEqual(sto.cut, [], `${tag}: no storey tag cuts its name (its <b> fits)`);
       assert.strictEqual(sto.small, 0, `${tag}: the storey tags are 10.5px or more`);
       assert.ok(sto.ratio >= 4.5, `${tag}: the storey tags read at 4.5:1: ${sto.ratio}`);
       assert.deepStrictEqual(sto.overlap, [], `${tag}: no storey tag covers a sign, a plate or another tag`);
